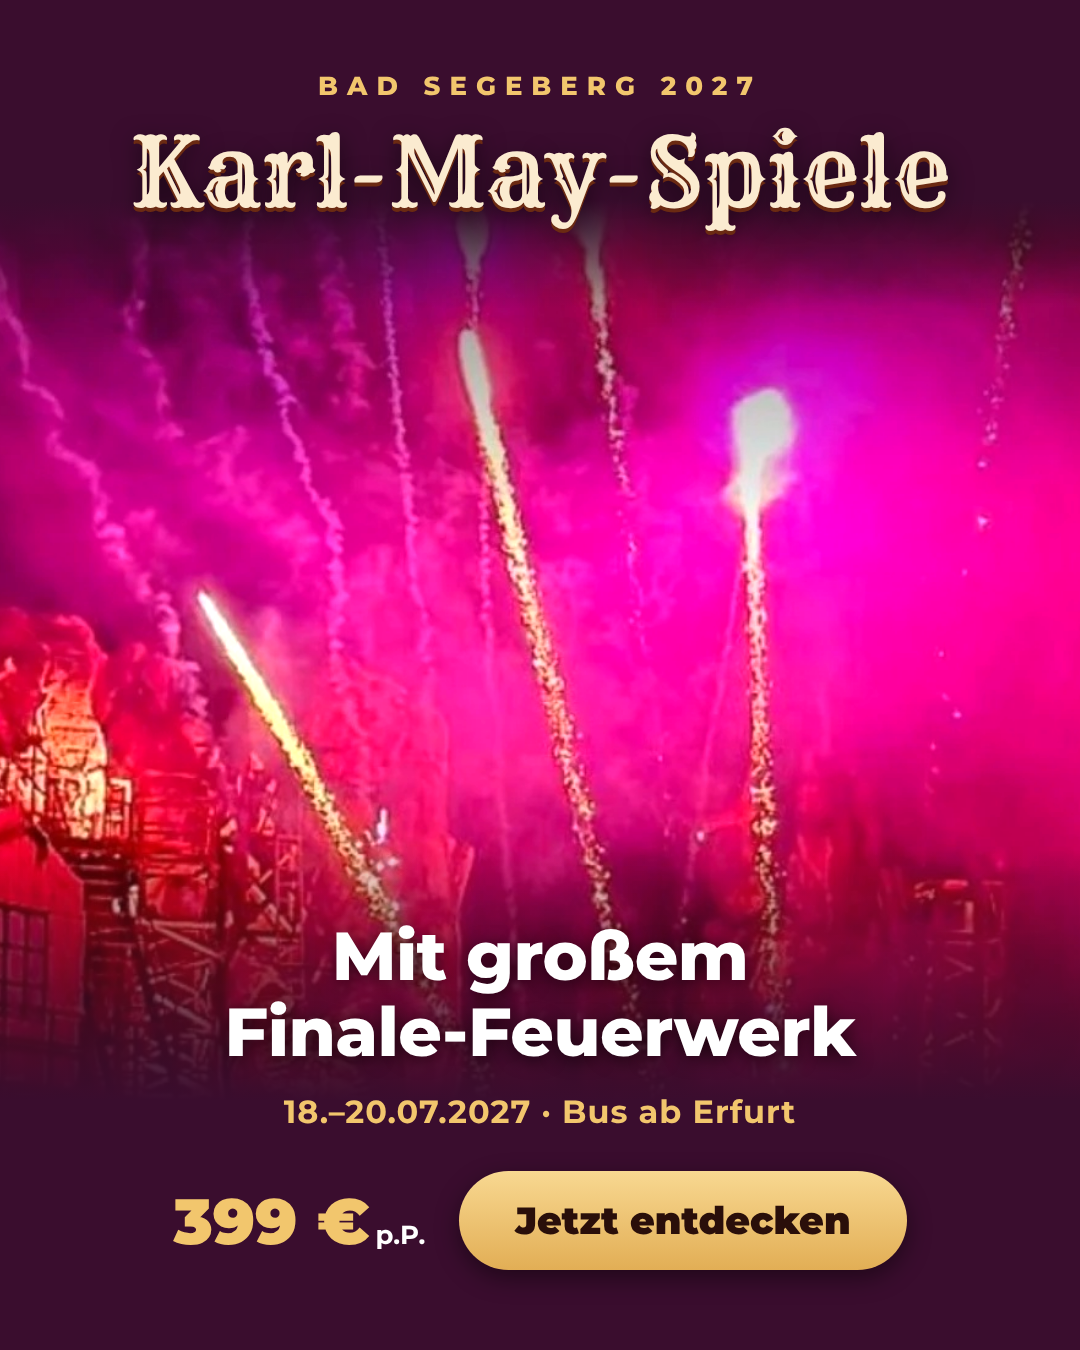
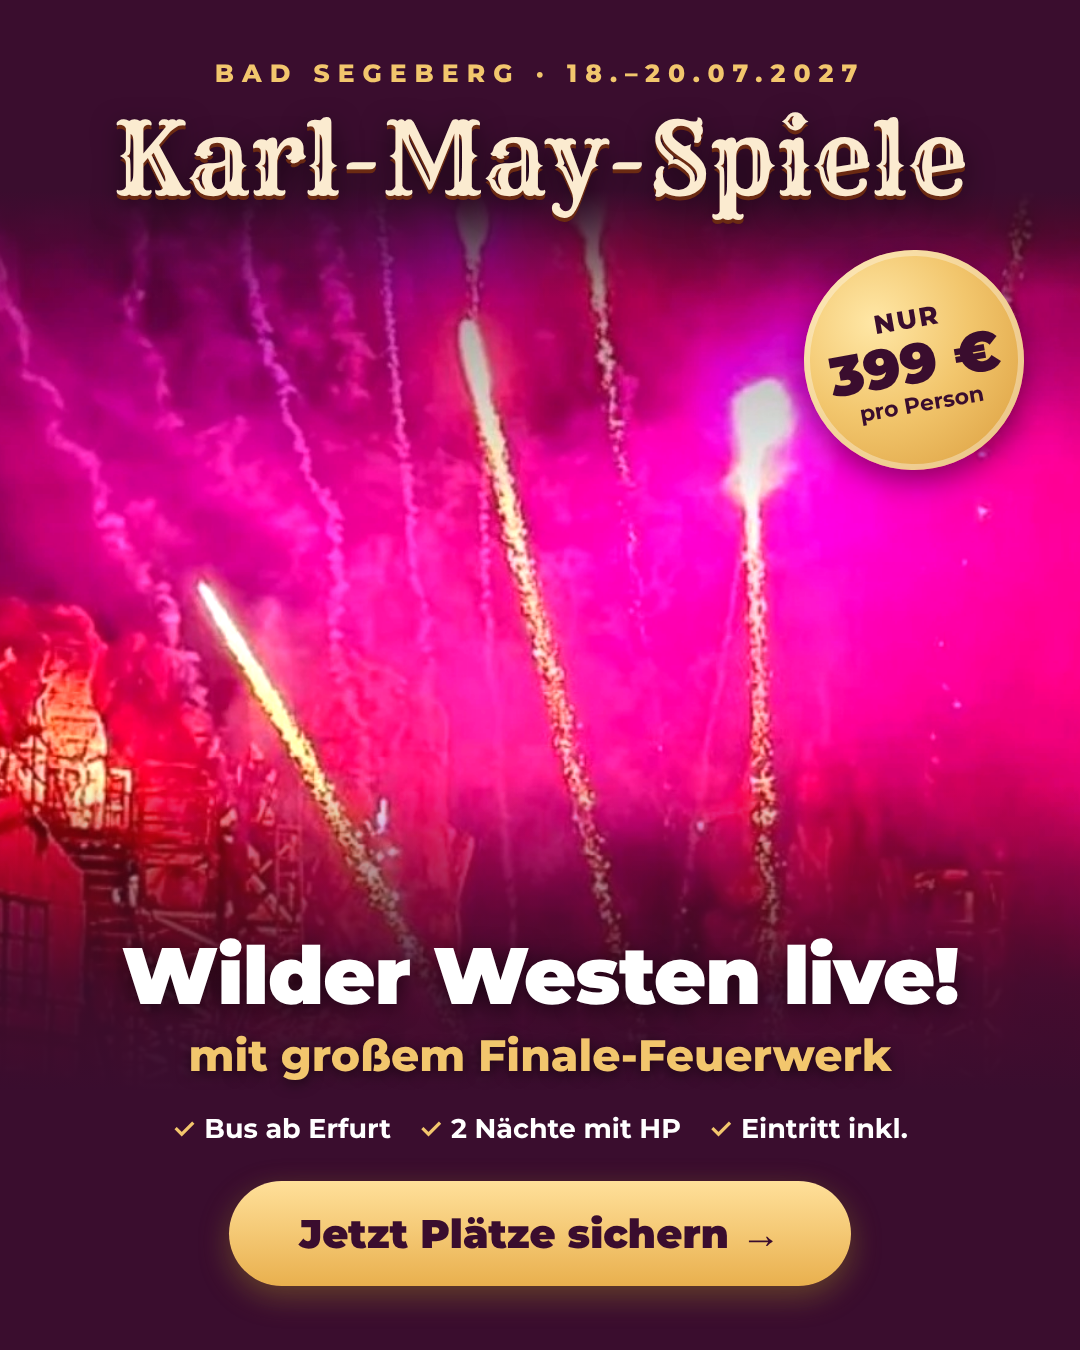
Make Karl-May-Spiele creative more compelling: price sticker, hook, inclusions
Claude-Session: https://claude.ai/code/session_01MYsT5PUrxmX4pbkuNXz2ag

diff --git a/creatives/karl-may-feuerwerk.html b/creatives/karl-may-feuerwerk.html
@@ -1,33 +1,35 @@
 <!doctype html><html><head><meta charset="utf-8">
-<link href="https://fonts.googleapis.com/css2?family=Rye&family=Playfair+Display:ital,wght@1,700;1,800&family=Montserrat:wght@600;700;800;900&display=swap" rel="stylesheet">
+<link href="https://fonts.googleapis.com/css2?family=Rye&family=Montserrat:wght@600;700;800;900&display=swap" rel="stylesheet">
 <style>
 *{margin:0;padding:0;box-sizing:border-box}
 body{width:1080px;height:1350px;font-family:Montserrat,sans-serif;color:#fff;overflow:hidden;background:#3a0d2e}
 .ad{position:relative;width:1080px;height:1350px}
-.bg{position:absolute;left:0;top:200px;width:1080px;height:900px;object-fit:cover;object-position:30% 50%;filter:brightness(1.18) saturate(1.05)}
-.fade{position:absolute;left:0;top:200px;width:1080px;height:902px;background:linear-gradient(180deg,#3a0d2e 0%,rgba(58,13,46,0) 12%,rgba(58,13,46,0) 72%,#3a0d2e 100%)}
-.top{position:absolute;top:70px;width:100%;text-align:center}
-.kicker{color:#F2C66D;font-weight:800;font-size:26px;letter-spacing:9px}
-.title{font-family:Rye,serif;font-size:96px;color:#FBEBD0;margin-top:10px;text-shadow:0 4px 0 #6b2a12,0 8px 24px rgba(0,0,0,.6)}
-.bottom{position:absolute;bottom:80px;width:100%;text-align:center}
-.h{font-weight:800;font-size:68px;line-height:1.12;letter-spacing:-.5px;text-shadow:0 3px 18px rgba(0,0,0,.65)}
-.sub{font-weight:700;font-size:32px;margin-top:22px;color:#F2C66D;letter-spacing:1px}
-.row{display:flex;justify-content:center;align-items:center;gap:34px;margin-top:40px}
-.price{font-weight:900;font-size:64px;color:#F2C66D}
-.price small{font-size:26px;font-weight:700;color:#fff;margin-left:6px}
-.cta{background:linear-gradient(180deg,#F8D891,#E2AE55);color:#2a0f0a;border-radius:60px;padding:26px 56px;font-weight:900;font-size:38px;box-shadow:0 8px 24px rgba(0,0,0,.45)}
+.bg{position:absolute;left:0;top:190px;width:1080px;height:900px;object-fit:cover;object-position:30% 50%;filter:brightness(1.2) saturate(1.08)}
+.fade{position:absolute;left:0;top:190px;width:1080px;height:902px;background:linear-gradient(180deg,#3a0d2e 0%,rgba(58,13,46,0) 12%,rgba(58,13,46,0) 66%,rgba(58,13,46,.85) 88%,#3a0d2e 100%)}
+.top{position:absolute;top:58px;width:100%;text-align:center}
+.kicker{color:#F2C66D;font-weight:800;font-size:25px;letter-spacing:8px}
+.title{font-family:Rye,serif;font-size:100px;color:#FBEBD0;margin-top:8px;text-shadow:0 4px 0 #6b2a12,0 10px 28px rgba(0,0,0,.6)}
+.sticker{position:absolute;top:250px;right:56px;width:220px;height:220px;border-radius:50%;background:radial-gradient(circle at 35% 30%,#FFE7A6,#F2C66D 45%,#D99A3A 100%);color:#3a0d2e;display:flex;flex-direction:column;align-items:center;justify-content:center;transform:rotate(-10deg);box-shadow:0 12px 30px rgba(0,0,0,.45),inset 0 0 0 6px rgba(255,255,255,.35)}
+.sticker .s1{font-weight:800;font-size:26px;text-transform:uppercase;letter-spacing:2px}
+.sticker .s2{font-weight:900;font-size:56px;line-height:1}
+.sticker .s3{font-weight:700;font-size:22px}
+.bottom{position:absolute;bottom:64px;width:100%;text-align:center}
+.h{font-weight:900;font-size:80px;line-height:1.05;letter-spacing:-1px;text-shadow:0 4px 22px rgba(0,0,0,.6)}
+.h2{font-weight:800;font-size:44px;color:#F2C66D;margin-top:10px;text-shadow:0 3px 14px rgba(0,0,0,.6)}
+.incl{display:flex;justify-content:center;gap:28px;margin-top:30px;font-weight:700;font-size:27px}
+.incl span::before{content:"✓ ";color:#F2C66D;font-weight:900}
+.cta{display:inline-block;margin-top:36px;background:linear-gradient(180deg,#FFE09A,#E9B04E);color:#3a0d2e;border-radius:60px;padding:28px 70px;font-weight:900;font-size:40px;box-shadow:0 10px 30px rgba(233,176,78,.35),0 8px 24px rgba(0,0,0,.4)}
 </style></head><body><div class="ad">
 <img class="bg" src="karl-may-feuerwerk-bg.jpg"><div class="fade"></div>
 <div class="top">
-  <div class="kicker">BAD SEGEBERG 2027</div>
+  <div class="kicker">BAD SEGEBERG · 18.–20.07.2027</div>
   <div class="title">Karl-May-Spiele</div>
 </div>
+<div class="sticker"><div class="s1">nur</div><div class="s2">399 €</div><div class="s3">pro Person</div></div>
 <div class="bottom">
-  <div class="h">Mit großem<br>Finale-Feuerwerk</div>
-  <div class="sub">18.–20.07.2027 · Bus ab Erfurt</div>
-  <div class="row">
-    <div class="price">399 €<small>p.P.</small></div>
-    <div class="cta">Jetzt entdecken</div>
-  </div>
+  <div class="h">Wilder Westen live!</div>
+  <div class="h2">mit großem Finale-Feuerwerk</div>
+  <div class="incl"><span>Bus ab Erfurt</span><span>2 Nächte mit HP</span><span>Eintritt inkl.</span></div>
+  <div class="cta">Jetzt Plätze sichern →</div>
 </div>
 </div></body></html>
